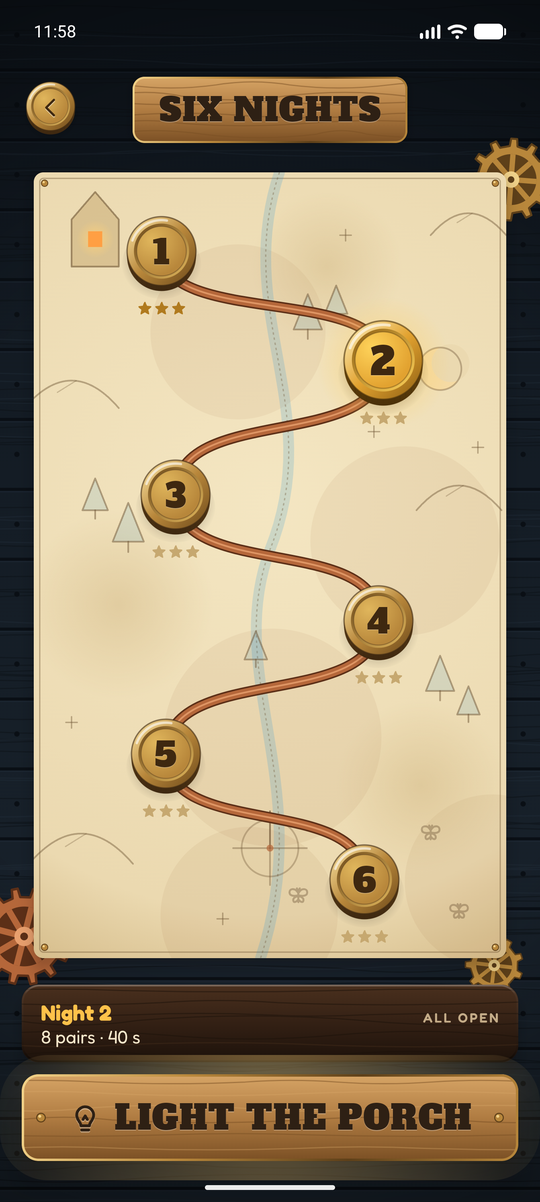
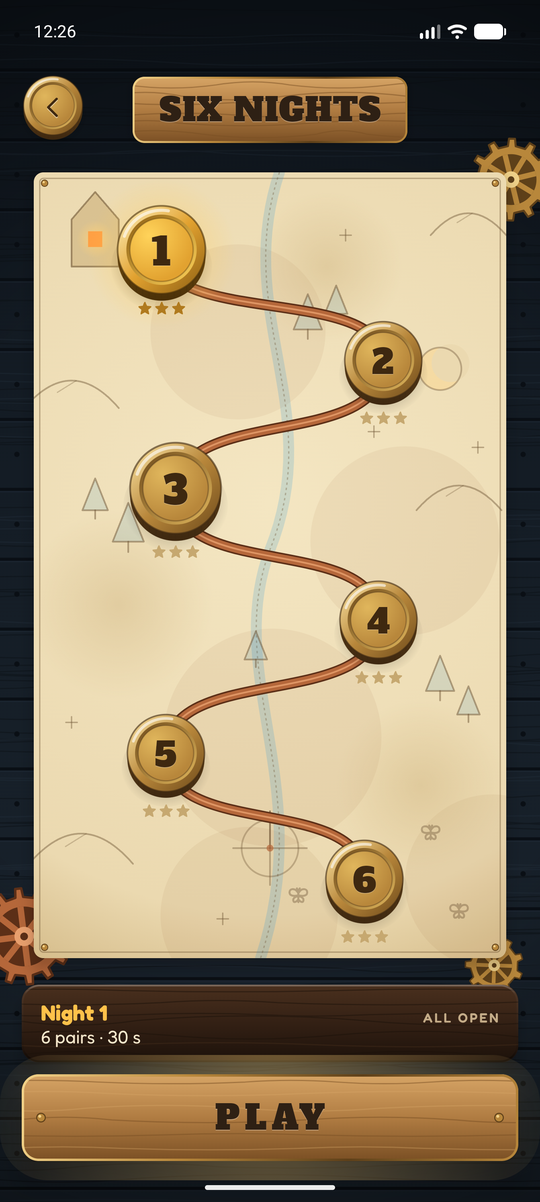
Quieter porch info, 3D menu tiles, night coins that rise and ask first
- Tonight's facts (night, pairs, seconds, best) move up under the title
  as a faint line with small marks; the lead tag gets room above the
  play sign, and the sign room above the tiles.
- The four menu tiles are raised walnut blocks with a dark side showing
  below; the face sinks onto it when pressed. Each mark sits on a small
  3D brass coin that bobs in its own time, and a glint crosses each
  tile now and then (still under reduce motion).
- Night coins rise and grow under a finger or a mouse pointer.
- Tapping a night opens a parchment card that springs up with the
  night, its stars, pairs, time and twist, and PLAY / Not now.

diff --git a/app/src/main/java/app/porchlight/game/Porch.kt b/app/src/main/java/app/porchlight/game/Porch.kt
@@ -1,5 +1,12 @@
 package app.porchlight.game
 
+import androidx.compose.ui.graphics.graphicsLayer
+
+import androidx.compose.animation.core.animateFloatAsState
+import androidx.compose.ui.graphics.drawscope.rotate
+import androidx.compose.ui.graphics.drawscope.clipRect
+import androidx.compose.ui.draw.drawWithContent
+import androidx.compose.foundation.interaction.collectIsPressedAsState
 import androidx.compose.ui.draw.shadow
 import androidx.compose.foundation.background
 import androidx.compose.foundation.interaction.MutableInteractionSource
@@ -114,6 +121,8 @@ internal fun Porch(session: Session) {
                     TopRow(session)
                     Spacer(Modifier.height(10.dp))
                     Logo(session.calm)
+                    Tonight(session)
+                    Spacer(Modifier.height(12.dp))
                     Controls(session)
                 }
             }
@@ -122,6 +131,7 @@ internal fun Porch(session: Session) {
                 TopRow(session)
                 Spacer(Modifier.height(6.dp))
                 Logo(session.calm)
+                Tonight(session)
                 Stage(session, Modifier.fillMaxWidth().weight(1f))
                 Controls(session)
             }
@@ -186,45 +196,92 @@ private fun Controls(session: Session) {
                 Text(brief(lead), style = BodyText, color = Dusk.ink, maxLines = 1)
             }
         }
-        Spacer(Modifier.height(4.dp))
+        // Room to breathe between the tag, the sign and the tiles.
+        Spacer(Modifier.height(16.dp))
         PlayButton("Play", session.calm, Modifier.fillMaxWidth()) { session.start(daily = false) }
-        Spacer(Modifier.height(8.dp))
-        // Tonight at a glance: four small engraved plates, each with its mark.
-        FlowRow(
-            horizontalArrangement = Arrangement.spacedBy(6.dp, Alignment.CenterHorizontally),
-            verticalArrangement = Arrangement.spacedBy(6.dp),
-        ) {
-            Fact(Glyph.Map, "NIGHT ${night.number}")
-            Fact(Glyph.Moth, "${night.pairs} PAIRS")
-            Fact(Glyph.Clock, "${night.roundMs / 1000} S")
-            if (progress.best > 0) Fact(Glyph.Trophy, progress.best.grouped())
-        }
-        Spacer(Modifier.height(12.dp))
+        Spacer(Modifier.height(18.dp))
         Row(horizontalArrangement = Arrangement.spacedBy(8.dp)) {
-            MenuTile(Glyph.Map, "Nights", Modifier.weight(1f)) { session.open(Screen.Nights) }
-            MenuTile(Glyph.Calendar, "Daily", Modifier.weight(1f)) { session.open(Screen.Daily) }
-            MenuTile(Glyph.Moth, "Moths", Modifier.weight(1f)) { session.open(Screen.Moths) }
-            MenuTile(Glyph.Trophy, "Badges", Modifier.weight(1f)) { session.open(Screen.Badges) }
+            MenuTile(Glyph.Map, "Nights", 0, session, Modifier.weight(1f)) { session.open(Screen.Nights) }
+            MenuTile(Glyph.Calendar, "Daily", 1, session, Modifier.weight(1f)) { session.open(Screen.Daily) }
+            MenuTile(Glyph.Moth, "Moths", 2, session, Modifier.weight(1f)) { session.open(Screen.Moths) }
+            MenuTile(Glyph.Trophy, "Badges", 3, session, Modifier.weight(1f)) { session.open(Screen.Badges) }
         }
     }
 }
 
 /** A walnut tile with a brass rule: an icon over its name. */
 @Composable
-private fun MenuTile(glyph: Glyph, label: String, modifier: Modifier, onClick: () -> Unit) {
-    Column(
+private fun MenuTile(glyph: Glyph, label: String, index: Int, session: Session, modifier: Modifier, onClick: () -> Unit) {
+    val press = remember { MutableInteractionSource() }
+    val pressed by press.collectIsPressedAsState()
+    val sink by animateFloatAsState(if (pressed) 1f else 0f, spring(dampingRatio = 0.5f, stiffness = Spring.StiffnessMedium), label = "sink")
+    val clock = session.clock
+    val calm = session.calm
+    // A raised walnut block: its dark side shows below the face, and the face sinks onto it when
+    // pressed. The mark sits on a small brass coin that bobs gently, each tile in its own time,
+    // and a glint crosses each tile now and then.
+    Box(
         modifier
-            .height(70.dp)
-            .plank(Wood.Walnut, corner = 12.dp, elevation = 5.dp, seed = label.length + 3)
-            .border(1.5.dp, BrassRule, RoundedCornerShape(12.dp))
-            .clickable(role = Role.Button, onClick = onClick)
+            .height(80.dp)
+            .clickable(interactionSource = press, indication = null, role = Role.Button, onClick = onClick)
             .semantics { contentDescription = label },
-        horizontalAlignment = Alignment.CenterHorizontally,
-        verticalArrangement = Arrangement.Center,
     ) {
-        GlyphArt(glyph, Craft.brassLight, Modifier.size(26.dp))
-        Spacer(Modifier.height(4.dp))
-        Text(label.uppercase(), style = Label, color = Dusk.ink, maxLines = 1)
+        Box(
+            Modifier
+                .matchParentSize()
+                .padding(top = 8.dp)
+                .shadow(6.dp, RoundedCornerShape(12.dp), ambientColor = Dusk.shadow, spotColor = Dusk.shadow)
+                .clip(RoundedCornerShape(12.dp))
+                .background(Brush.verticalGradient(listOf(Color(0xFF3A2414), Color(0xFF140B05)))),
+        )
+        Column(
+            Modifier
+                .fillMaxWidth()
+                .height(72.dp)
+                .graphicsLayer { translationY = sink * 6.dp.toPx() }
+                .plank(Wood.Walnut, corner = 12.dp, elevation = 0.dp, seed = label.length + 3)
+                .border(1.5.dp, BrassRule, RoundedCornerShape(12.dp))
+                .drawWithContent {
+                    drawContent()
+                    if (!calm) {
+                        val cycle = (clock.seconds + index * 1.3f) % 5f
+                        if (cycle < 0.8f) {
+                            val x = -size.width * 0.4f + size.width * 1.8f * (cycle / 0.8f)
+                            clipRect {
+                                rotate(25f, Offset(x, size.height / 2f)) {
+                                    drawRect(
+                                        Brush.horizontalGradient(listOf(Color.Transparent, Color.White.copy(alpha = 0.22f), Color.Transparent), x - 14.dp.toPx(), x + 14.dp.toPx()),
+                                        Offset(x - 14.dp.toPx(), -size.height),
+                                        androidx.compose.ui.geometry.Size(28.dp.toPx(), size.height * 3f),
+                                    )
+                                }
+                            }
+                        }
+                    }
+                },
+            horizontalAlignment = Alignment.CenterHorizontally,
+            verticalArrangement = Arrangement.Center,
+        ) {
+            Box(
+                Modifier
+                    .size(38.dp)
+                    .graphicsLayer {
+                        if (!calm) translationY = 2.dp.toPx() * kotlin.math.sin(clock.seconds * 2.2f + index * 1.4f)
+                    }
+                    .drawBehind {
+                        val (c, rr) = coinFace(size)
+                        coin(c, rr, press = sink)
+                    },
+                contentAlignment = Alignment.Center,
+            ) {
+                Box(Modifier.offset(y = (-2).dp)) {
+                    GlyphArt(glyph, Color.White.copy(alpha = 0.45f), Modifier.size(18.dp).offset(y = 1.dp))
+                    GlyphArt(glyph, Color(0xFF3E2810), Modifier.size(18.dp))
+                }
+            }
+            Spacer(Modifier.height(3.dp))
+            Text(label.uppercase(), style = Label, color = Dusk.ink, maxLines = 1)
+        }
     }
 }
 
@@ -346,19 +403,30 @@ private fun Stage(session: Session, modifier: Modifier) {
     }
 }
 
-/** One fact about tonight on a small dark plate with a brass edge: a mark and a word. */
+/**
+ * Tonight, quietly, under the title: the night, its pairs and time, and the best score, each with
+ * a small mark. Plain faint lettering: it informs without competing with the play sign.
+ */
+@Composable
+private fun Tonight(session: Session) {
+    val progress = session.store.progress
+    val night = NIGHTS[progress.night - 1]
+    Row(
+        Modifier.padding(top = 2.dp).semantics(mergeDescendants = true) {},
+        verticalAlignment = Alignment.CenterVertically,
+        horizontalArrangement = Arrangement.spacedBy(12.dp),
+    ) {
+        Fact(Glyph.Map, "NIGHT ${night.number}")
+        Fact(Glyph.Moth, "${night.pairs} PAIRS")
+        Fact(Glyph.Clock, "${night.roundMs / 1000} S")
+        if (progress.best > 0) Fact(Glyph.Trophy, progress.best.grouped())
+    }
+}
+
 @Composable
 private fun Fact(glyph: Glyph, text: String) {
-    Row(
-        Modifier
-            .clip(RoundedCornerShape(8.dp))
-            .background(Color.Black.copy(alpha = 0.32f))
-            .border(1.dp, Craft.brassDark, RoundedCornerShape(8.dp))
-            .padding(horizontal = 8.dp, vertical = 4.dp),
-        verticalAlignment = Alignment.CenterVertically,
-        horizontalArrangement = Arrangement.spacedBy(5.dp),
-    ) {
-        GlyphArt(glyph, Craft.brassLight, Modifier.size(14.dp))
-        Text(text, style = Label, color = Dusk.ink, maxLines = 1)
+    Row(verticalAlignment = Alignment.CenterVertically, horizontalArrangement = Arrangement.spacedBy(4.dp)) {
+        GlyphArt(glyph, Dusk.inkSoft.copy(alpha = 0.75f), Modifier.size(12.dp))
+        Text(text, style = Label, color = Dusk.inkSoft.copy(alpha = 0.85f), maxLines = 1)
     }
 }

diff --git a/app/src/main/java/app/porchlight/game/Menus.kt b/app/src/main/java/app/porchlight/game/Menus.kt
@@ -1,5 +1,8 @@
 package app.porchlight.game
 
+import androidx.compose.foundation.interaction.collectIsHoveredAsState
+import androidx.compose.foundation.interaction.collectIsPressedAsState
+import androidx.compose.foundation.hoverable
 import kotlin.math.sin
 import kotlin.math.abs
 import androidx.compose.ui.graphics.PathEffect
@@ -129,6 +132,9 @@ internal fun NightsScreen(session: Session) {
     val progress = session.store.progress
     val picked = NIGHTS[progress.night - 1]
     var lockedHint by remember { mutableStateOf<String?>(null) }
+    // The night waiting for a yes in the confirmation card, if one is open.
+    var asking by remember { mutableStateOf<Night?>(null) }
+    Box(Modifier.fillMaxSize()) {
     MenuFrame("Six nights", session, scroll = false) {
         BoxWithConstraints(
             Modifier
@@ -182,22 +188,34 @@ internal fun NightsScreen(session: Session) {
             NIGHTS.forEachIndexed { i, night ->
                 val open = night.number <= progress.nights
                 val chosen = night.number == progress.night
-                val grow by animateFloatAsState(if (chosen) 1.14f else 1f, spring(dampingRatio = 0.5f, stiffness = Spring.StiffnessMedium), label = "grow")
+                // Under a finger (or a mouse pointer) a coin rises and grows, so it's clear what
+                // will be picked.
+                val touch = remember { MutableInteractionSource() }
+                val held by touch.collectIsPressedAsState()
+                val hovered by touch.collectIsHoveredAsState()
+                val near = held || hovered
+                val grow by animateFloatAsState(
+                    (if (chosen) 1.14f else 1f) * (if (near && open) 1.18f else 1f),
+                    spring(dampingRatio = 0.45f, stiffness = Spring.StiffnessMedium),
+                    label = "grow",
+                )
                 val size = 60.dp
                 Column(
                     Modifier
                         .offset(w * STOPS[i].x - 45.dp, h * STOPS[i].y - size / 2)
                         .width(90.dp)
+                        .hoverable(touch)
                         .clickable(
-                            interactionSource = remember { MutableInteractionSource() },
+                            interactionSource = touch,
                             indication = null,
-                            role = Role.RadioButton,
+                            role = Role.Button,
                         ) {
                             if (open) {
-                                // A night on the map starts at once: pick it and light the porch.
+                                // Pick it, then ask before lighting the porch.
                                 lockedHint = null
+                                session.sfx.play(Sound.Flip, vary = 0.06f)
                                 session.store.change { it.copy(night = night.number) }
-                                session.start(daily = false)
+                                asking = night
                             } else {
                                 lockedHint = "Night ${night.number} is locked: win two stars on night ${night.number - 1}."
                                 session.sfx.play(Sound.Locked)
@@ -218,6 +236,7 @@ internal fun NightsScreen(session: Session) {
                             .graphicsLayer {
                                 scaleX = grow
                                 scaleY = grow
+                                translationY = if (near && open) -4.dp.toPx() else 0f
                                 cameraDistance = 12f * density
                                 rotationY = session.tilt.x * 16f
                                 rotationX = -session.tilt.y * 16f
@@ -275,6 +294,8 @@ internal fun NightsScreen(session: Session) {
         }
         Spacer(Modifier.height(10.dp))
         PlayButton("Play", session.calm, Modifier.fillMaxWidth()) { session.start(daily = false) }
+    }
+    asking?.let { night -> NightConfirm(night, progress.nightStars[night.number - 1], session) { asking = null } }
     }
 }
 
@@ -929,5 +950,62 @@ private fun DrawScope.mapArt() {
     // Moths fluttering near the last night.
     for ((x, y) in listOf(0.84f to 0.84f, 0.9f to 0.94f, 0.56f to 0.92f)) {
         glyph(Glyph.Moth, at(x, y), w * 0.05f, ink, alpha = 0.4f)
+    }
+}
+
+/**
+ * Asks before a night starts: a parchment card that springs up from the coin, with the night's
+ * name, its pairs, time and twist, the stars won so far, PLAY and Not now. Tapping outside or
+ * Back closes it.
+ */
+@Composable
+private fun NightConfirm(night: Night, stars: Int, session: Session, onClose: () -> Unit) {
+    val rise = remember(night) { Animatable(0f) }
+    LaunchedEffect(night) { rise.animateTo(1f, if (session.calm) tween(180) else spring(dampingRatio = 0.6f, stiffness = Spring.StiffnessMediumLow)) }
+    androidx.activity.compose.BackHandler(onBack = onClose)
+    Box(
+        Modifier
+            .fillMaxSize()
+            .background(Dusk.shadow.copy(alpha = 0.65f * rise.value.coerceIn(0f, 1f)))
+            .clickable(interactionSource = remember { MutableInteractionSource() }, indication = null, onClick = onClose),
+        contentAlignment = Alignment.Center,
+    ) {
+        Column(
+            Modifier
+                .padding(28.dp)
+                .widthIn(max = 360.dp)
+                .graphicsLayer {
+                    val t = rise.value
+                    alpha = t.coerceIn(0f, 1f)
+                    if (!session.calm) {
+                        scaleX = 0.8f + 0.2f * t
+                        scaleY = 0.8f + 0.2f * t
+                        translationY = (1f - t) * 40.dp.toPx()
+                    }
+                }
+                .shadow(14.dp, RoundedCornerShape(10.dp), ambientColor = Dusk.shadow, spotColor = Dusk.shadow)
+                .parchment(10.dp)
+                .clickable(interactionSource = remember { MutableInteractionSource() }, indication = null) {}
+                .padding(horizontal = 22.dp, vertical = 20.dp),
+            horizontalAlignment = Alignment.CenterHorizontally,
+        ) {
+            Text("NIGHT ${night.number}", style = Display, fontSize = TypeScale.Title, color = Craft.parchmentInk)
+            Spacer(Modifier.height(4.dp))
+            Row(horizontalArrangement = Arrangement.spacedBy(2.dp)) {
+                repeat(3) { i -> GlyphArt(Glyph.Star, if (i < stars) Craft.goldDeep else Craft.parchmentShade, Modifier.size(18.dp)) }
+            }
+            Spacer(Modifier.height(8.dp))
+            Text(nightLine(night), style = TextInk, fontWeight = FontWeight.Bold, color = Craft.parchmentInk)
+            if (night.twist != Twist.None) {
+                Text(night.twist.tip, style = TextInk, color = Craft.parchmentInkSoft, textAlign = TextAlign.Center, modifier = Modifier.padding(top = 4.dp))
+            }
+            Spacer(Modifier.height(16.dp))
+            PlayButton("Play", session.calm, Modifier.fillMaxWidth()) {
+                onClose()
+                session.start(daily = false)
+            }
+            Spacer(Modifier.height(8.dp))
+            SecondaryButton("Not now", Modifier.fillMaxWidth(), onClick = onClose)
+        }
     }
 }
